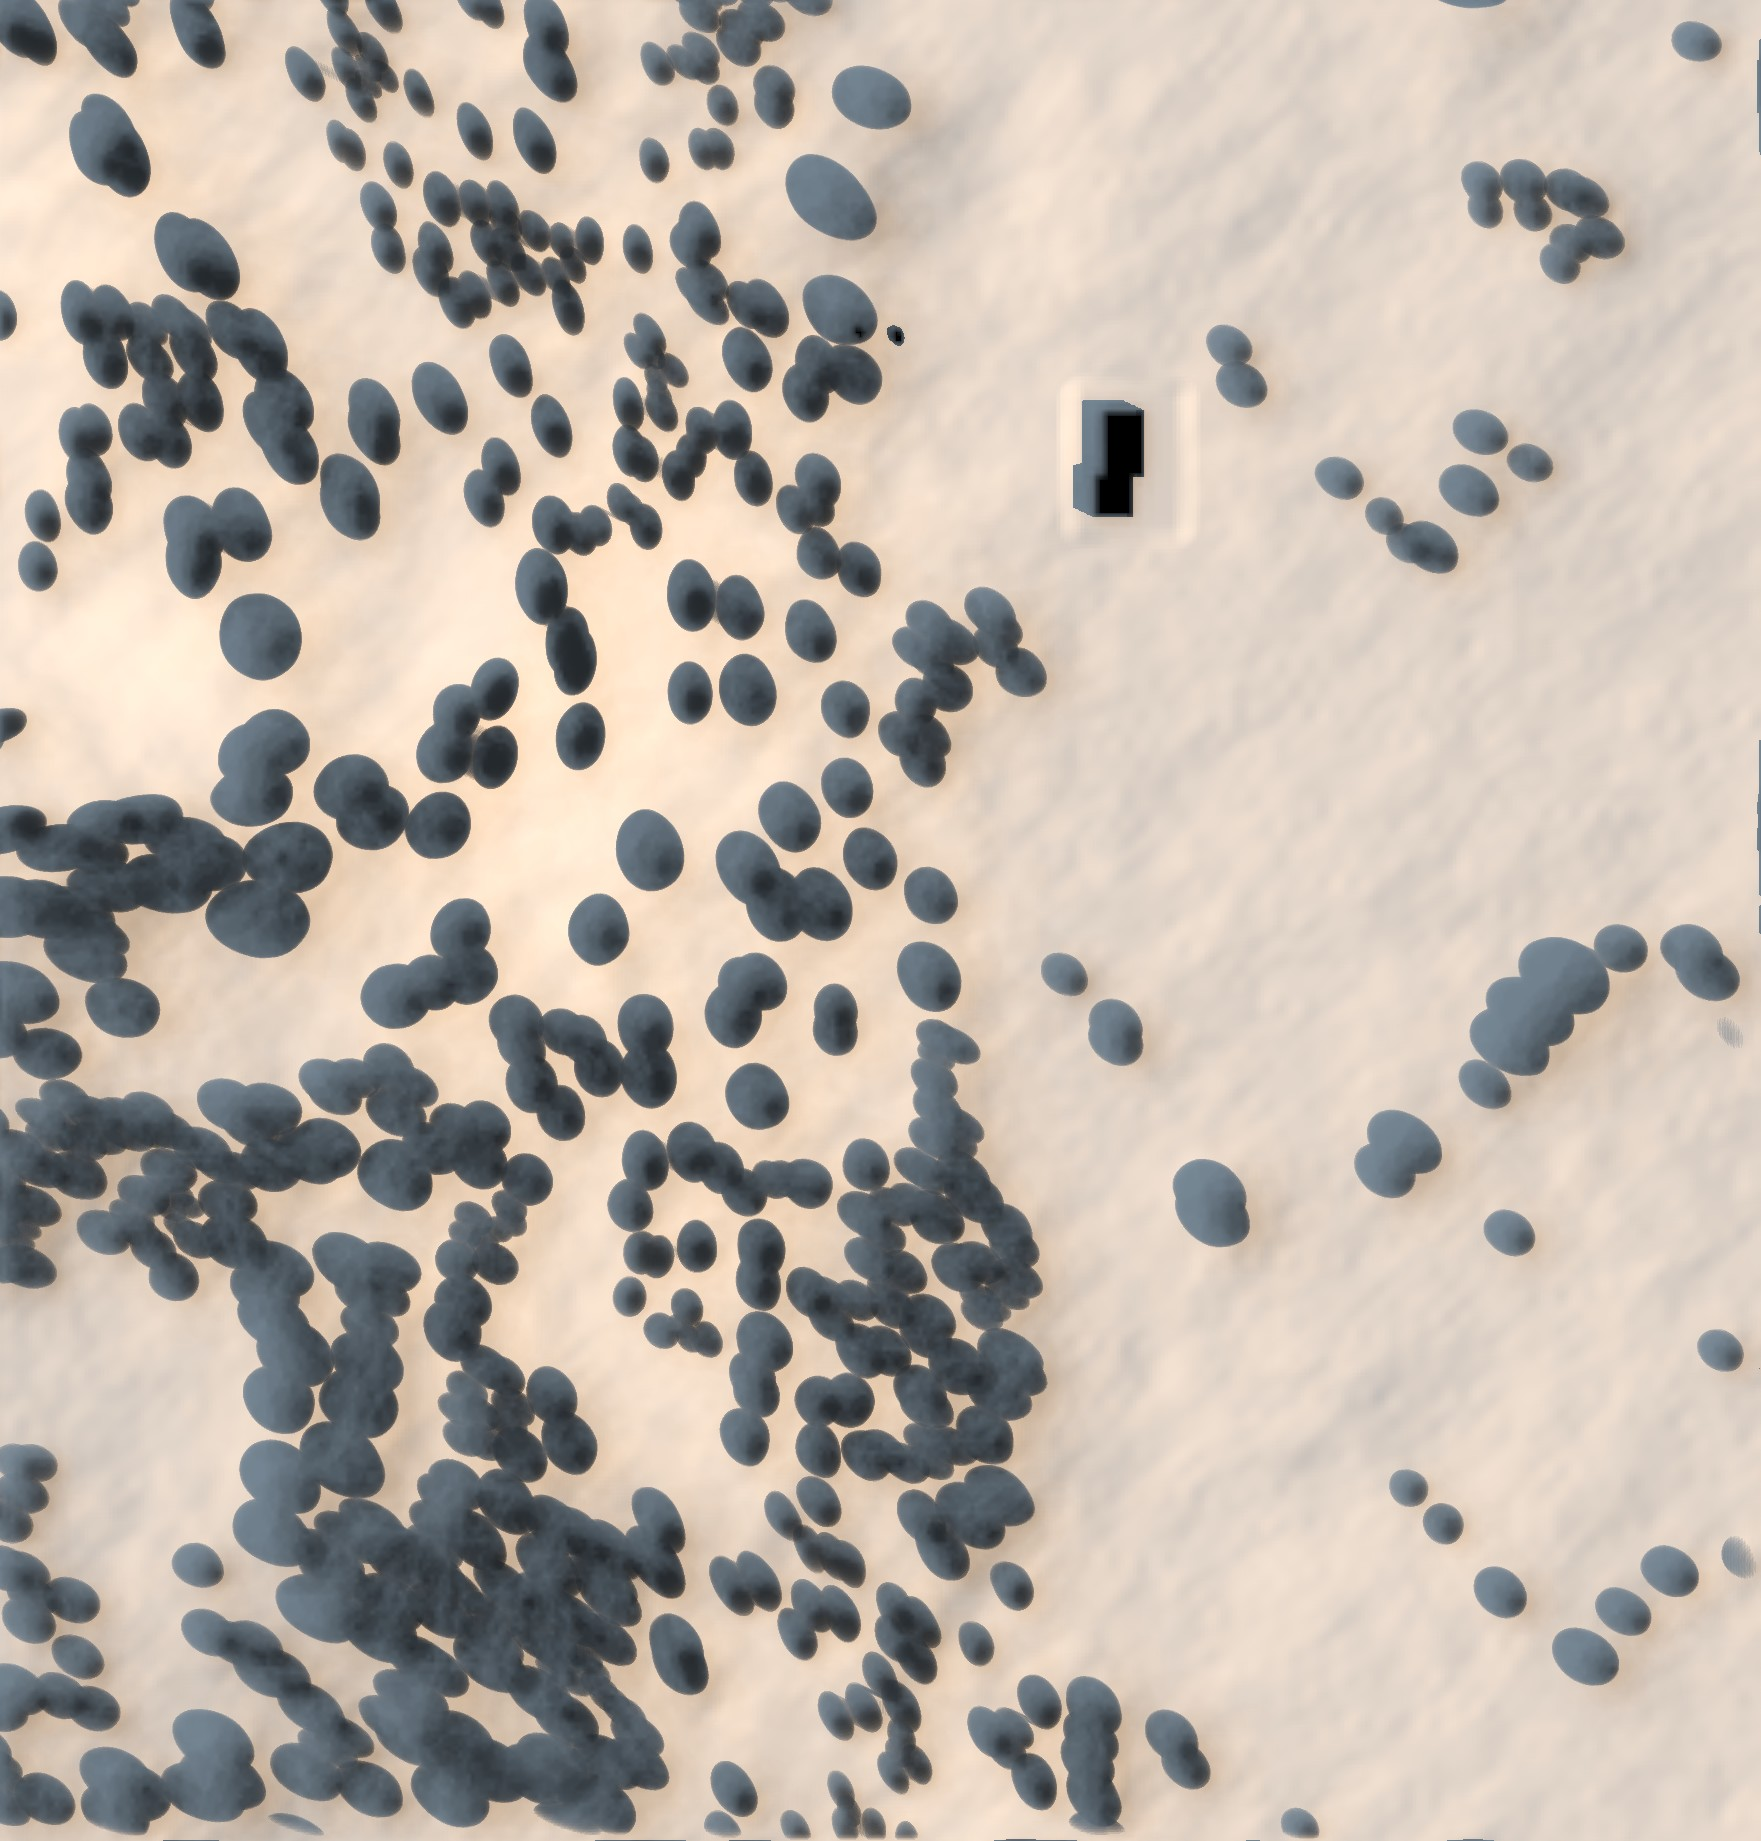
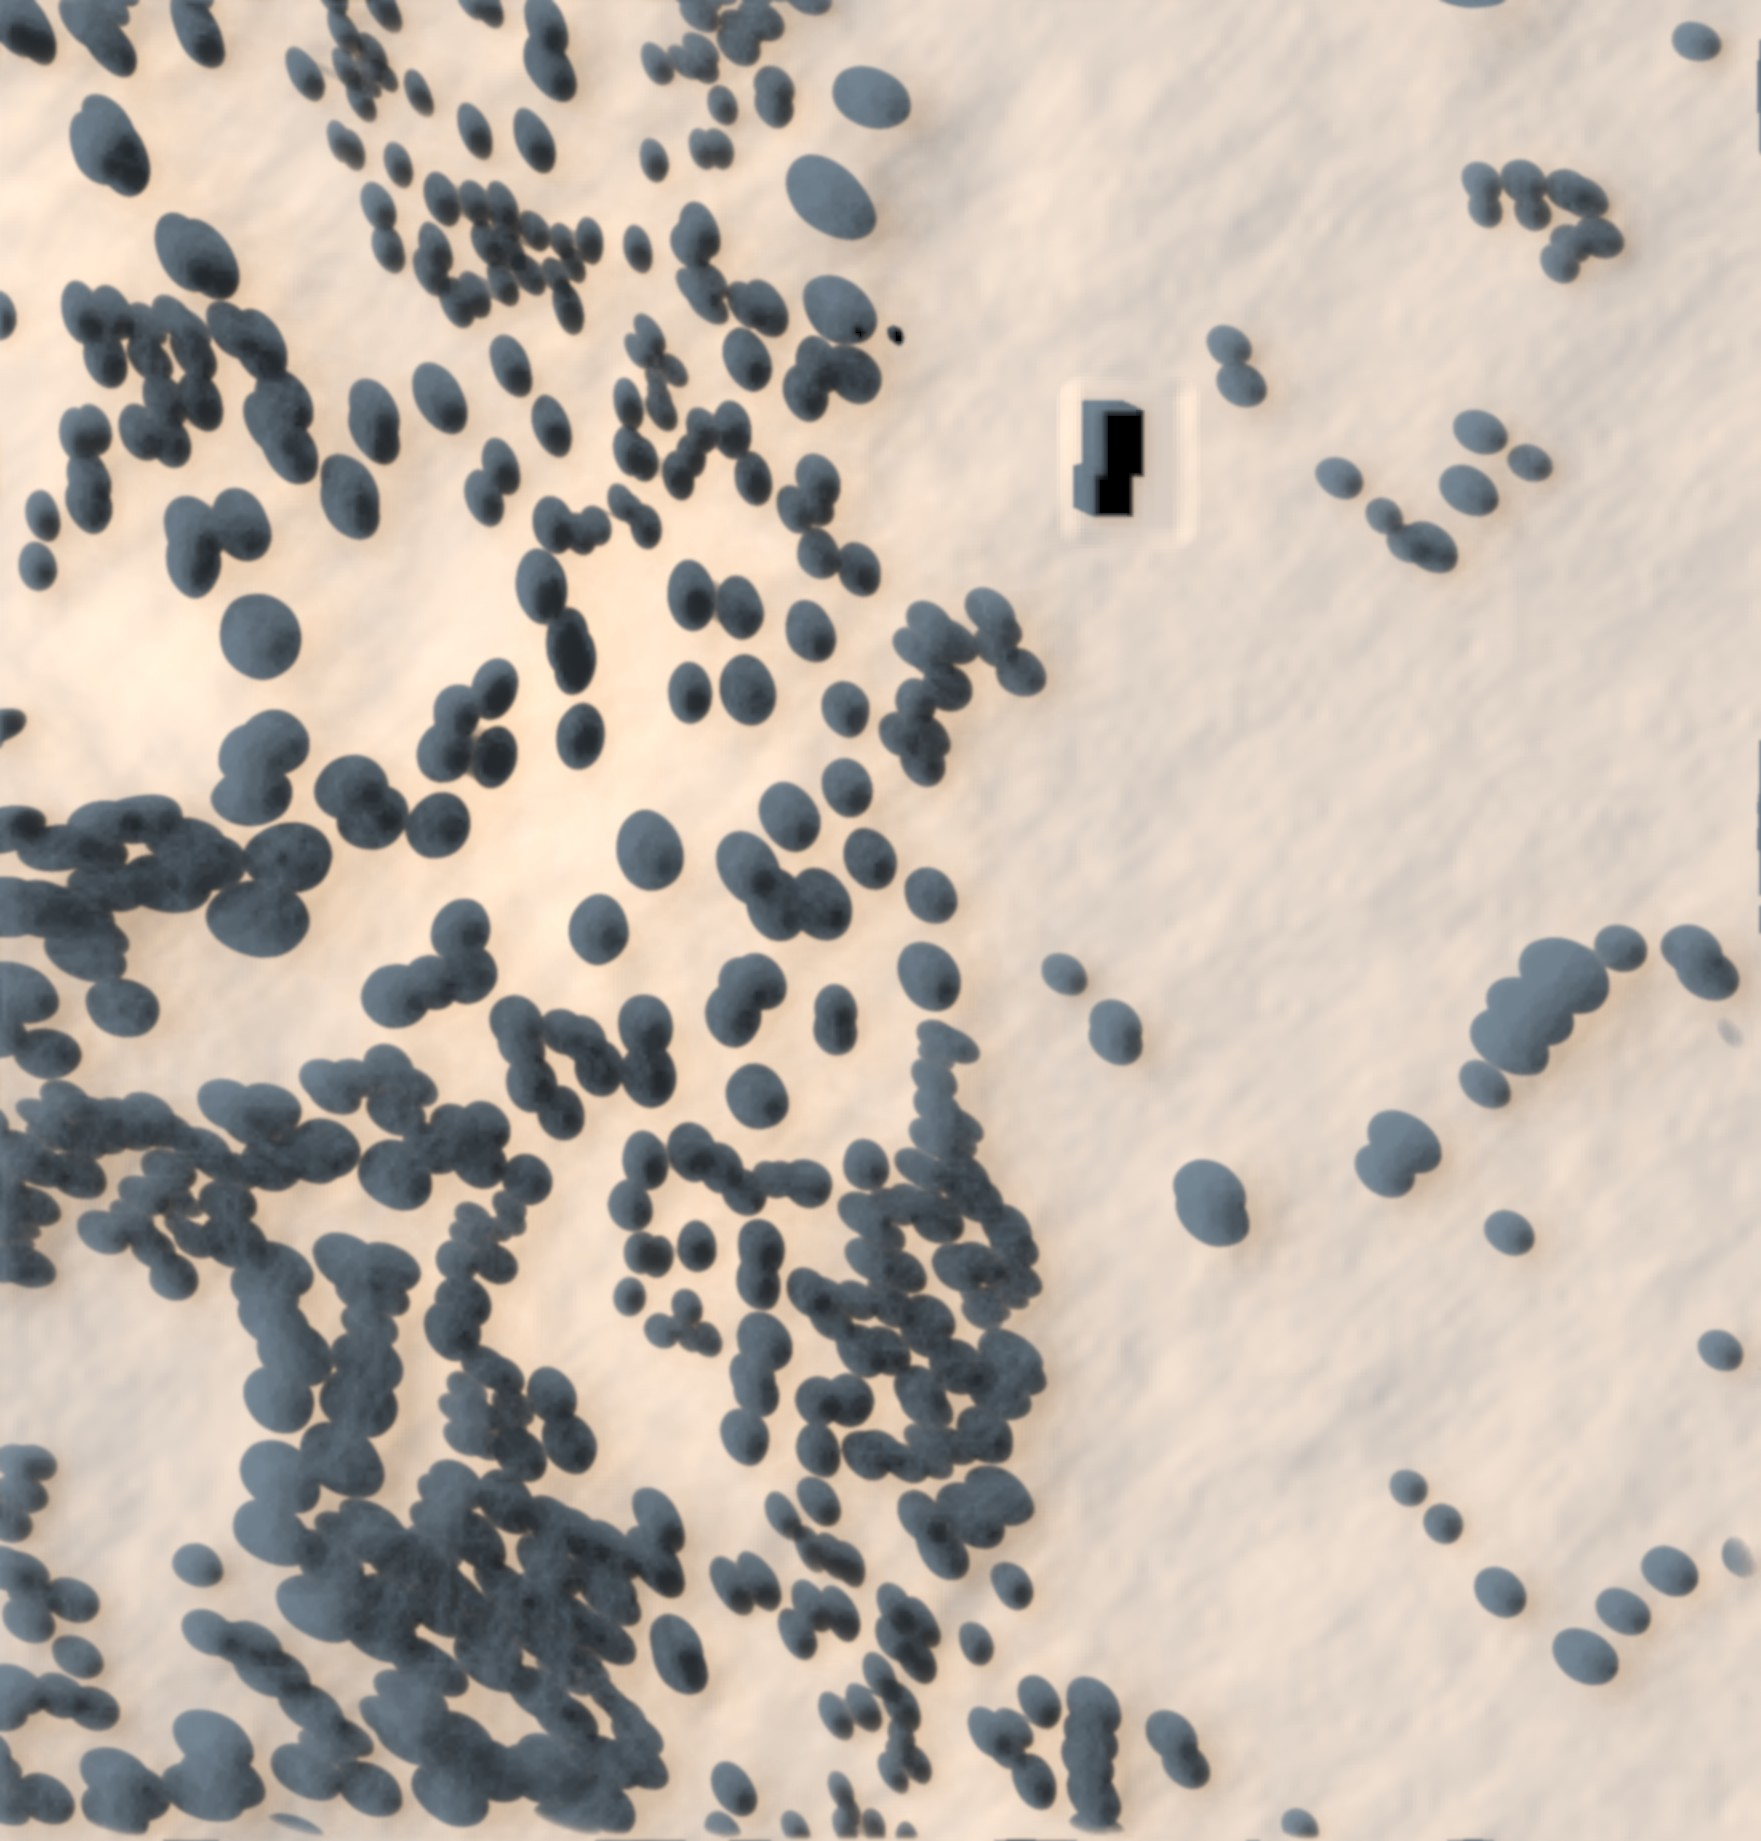
Finish the private side walk; publish it
Viewpoints start from the ground, so the terrace puts you on the deck under
the roof rather than on the roof. The boulders are grey granite. The mango
viewpoint stands back far enough to see the crown. Checked in the browser:
the homesite, the terrace and its view over the valley, the mango tree and
its boulders, and the switch back to the quarry cabins.

Claude-Session: https://claude.ai/code/session_01BVhnWLQamt73J4nrj2yiGZ

diff --git a/js/walk.js b/js/walk.js
@@ -195,7 +195,7 @@ export async function build(ctx) {
   const rocks = [];
   if (W.rocks) {
     const t = (k) => { const c = L.tex[k].clone(); c.needsUpdate = true; return c; };
-    const rockMat = new THREE.MeshStandardMaterial({ map: t('wall'), normalMap: t('wallN'), color: new THREE.Color().setRGB(0.6, 0.58, 0.55), roughness: 0.92 });
+    const rockMat = new THREE.MeshStandardMaterial({ map: t('plaster'), normalMap: t('wallN'), color: new THREE.Color().setRGB(0.5, 0.5, 0.52), roughness: 0.9 });   // grey granite
     W.rocks.forEach(([x, z, y, w, d, h, rot], k) => {
       const geo = new THREE.IcosahedronGeometry(1, 5), p = geo.attributes.position, v = new THREE.Vector3();
       for (let i = 0; i < p.count; i++) {                 // a weathered granite lump: lumpy, flat underneath
@@ -257,15 +257,15 @@ export async function build(ctx) {
     const c = cabins[Math.min(3, cabins.length - 1)], off = c.d / 2 + 2.2;
     return { x: c.cx + c.F[0] * off, z: c.cz + c.F[1] * off };
   };
-  const SPOTS = W.spots ? W.spots.map((p) => ({ name: p.name, at: () => ({ x: p.x, z: p.z }), look: p.look })) : [
+  const SPOTS = W.spots ? W.spots.map((p) => ({ name: p.name, at: () => ({ x: p.x, z: p.z }), look: p.look, pitch: p.pitch })) : [
     { name: 'Arrival', at: () => ({ x: 392, z: 834 }), look: [350, 892] },
     { name: 'Lagoon shore', at: () => ({ x: 384.2, z: 860.4 }), bearing: 280 },
     { name: 'Cabin deck', at: deckSpot, look: [lx, lz] },
   ];
   function goTo(s) {
-    const p = s.at(), y = feetAt(p.x, p.z, 1e4) ?? hAt(p.x, p.z);
+    const p = s.at(), y = feetAt(p.x, p.z, hAt(p.x, p.z) + 0.5) ?? hAt(p.x, p.z);      // from the ground: a deck, not the roof above it
     Object.assign(P, { x: p.x, z: p.z, feet: y, feetT: y });
-    if (s.look) lookAt(p.x, p.z, s.look[0], s.look[1]);
+    if (s.look) lookAt(p.x, p.z, s.look[0], s.look[1], s.pitch ?? -0.04);
     else { P.yaw = (-s.bearing * Math.PI) / 180; P.pitch = -0.04; }
     spotsEl.querySelectorAll('button').forEach((b) => b.setAttribute('aria-current', String(b.textContent === s.name)));
   }

diff --git a/render/private_site.py b/render/private_site.py
@@ -186,7 +186,7 @@ world = {
     **{k: QW[k] for k in ('sun', 'sunLight', 'ambient', 'lightScale', 'skyScale', 'spriteScale', 'sprites', 'grassAlbedo')},
     'trees': len(tx), 'residence': RES, 'rocks': [[x, z, y, w_, d_, h_, rot] for (x, z, w_, d_, h_, rot), y in zip(rocks, rock_y)],
     'parcel': [[round(x, 2), round(z, 2)] for x, z in RING],
-    'spots': [spot('The homesite', *at(-1, 30), *at(-1, 0)), spot('The terrace', *at(-2, 5.4), *at(-2, 60)), spot('The mango tree', mx + 16, mz + 6, mx, mz)],
+    'spots': [spot('The homesite', *at(-1, 30), *at(-1, 0)), spot('The terrace', *at(-2, 5.4), *at(-2, 60)), {**spot('The mango tree', mx + 22, mz + 8, mx, mz), 'pitch': 0.12}],
     'credits': 'Trees, textures and sky: Poly Haven (CC0). Terrain, trees and parcel: the site data and the survey.',
 }
 json.dump(world, open(f'{OUT}/world.json', 'w'), indent=1)

diff --git a/README.md b/README.md
@@ -6,7 +6,7 @@ a protected forest hill in Cordillera, Paraguay.
 ## Views
 
 - **The hill:** a 4 × 4 km 3D model of Cerro Kavaju from satellite elevation, imagery, tree heights and map data.
-- **Walk the site:** the quarry cabins, the lagoon and the forest edge, walkable in first person. Its light was baked in Blender (see `render/`).
+- **Walk the site:** two parts, walkable in first person. The quarry cabins, the lagoon and the forest edge (`#walk`), lit by a Blender bake; and the private side, Finca 2663, with the residence on its homesite, the mango tree and its boulders (`#walk-private`), lit by a bake in Python (see `render/`).
 - **Designs:** the glamping cabin (the same design as the quarry row in the walk) and a residence for the private side, with a Cabin / Residence switch.
 - **The trail:** a video of Mala Visión, the fight at the trail's midpoint, with the playable prototype one button away (`#trail-play`). The video is recorded from the prototype by `render/trail_video.mjs`.
 - **360° views:** photoreal panoramas rendered in Blender.
